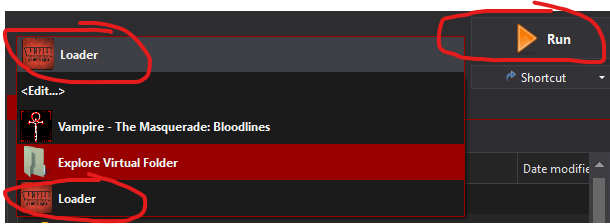
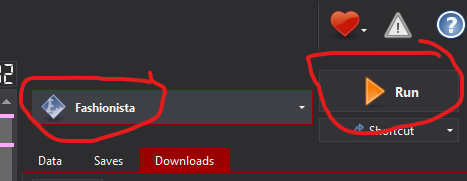
Update Read Me and add Images

diff --git a/README.md b/README.md
@@ -48,17 +48,17 @@ Its updated when someone tells me something is broken and I can fix it or I star
 - [Uninstalling Merethic](#uninstalling-merethic)
 
 # Preface
-I made this for my use, I don't care if you don't like the way Malkavians look I like it, if the base game profile has been created use that profile instead.
+I made this for my use, I don't care if you don't like the way Malkavians look I like it, the main profile is what I use think of it as my cut of the list, I made a base game profile that you should use if you want to just play the base game with bug fixes and higher res textures for some stuff.
 
 1. As a modlist user, I expect some small efforts into fixing your own issues, mostly by searching the documentation provided here and by the Discord channels. It's very likely any issue you encounter has already been solved - if this is the case and it's well known, don't be surprised if you get ignored.
    
-2. Support shouldn't be expected as instant - I have a full time job on top of this, if you ping me depending on my mood or if its an actual issue or not Muted.
+2. Support shouldn't be expected as instant - I have a full time job on top of this be nice.
    
-3. Do not expect a 100% polished, well-balanced and "perfect" experience, I am but one person even if its just a small list..
+3. Do not expect a 100% polished, well-balanced and "perfect" experience, I am but one person even if its just a small list.. and this is a famously buggy game.
    
 4. We're modding a nearly 20 year old game here, please temper your expectations some.
    
-5. Suggestions are fine but I have looked at everysingle mod on the Nexus for the list so there is a decent chance I looked at it and said no but there is always a chance.
+5. Suggestions are fine but I have looked at everysingle mod on the Nexus for the list so there is a decent chance I looked at it and said no but there is always a chance or it might be a new mod they still do come out from time to time.
 
 # Hardware Requirements
 
@@ -66,7 +66,7 @@ I made this for my use, I don't care if you don't like the way Malkavians look I
 |-------------|-----------------------------------------------|---------------------|--------------------|
 | What I have | AMD Ryzen 7 5800X3D 8-Core Processor 3.40 GHz | 32GB DDR4 @ 3200MHz | AMD Radeon RX 6950 |
 
-It runs great with my system but its probably fine on a potato PC
+It runs great with my system but its probably fine on a potato.
 
 
 ## Storage Space
@@ -76,10 +76,10 @@ It runs great with my system but its probably fine on a potato PC
 | Minimum     | 32GB          | SATA SSD            |
 | Recommended | 60GB          | NVMe SSD            |
 
-Your installation must be on an ***internal*** SSD. External SSDs & HDDs are too slow for modlists to run from, and if you ignore this and it runs slow I will point and laugh.
+Your installation must be on an ***internal*** SSD or M.2 Drive. External SSDs & HDDs are too slow for modlists to run from, and I suggest a M.2 drive otherwise load and launch times are a bit longer then you would want.
 
 # You Will Need
-  * A Nexus Premium Account if you do not want to click install 50 times.
+  * A Nexus Premium Account if you do not want to click install 100 times.
   * Patience
 
 # Pre-Installation
@@ -127,26 +127,10 @@ Download these files and place them *as they are* into the Resource Download fol
 
 After Wabbajack has given you the installation successful screen, you're free to close it.
 
-At this time I am unable to auto install the Unoffical Patch for you due to some issue with the exe file it uses that I am looking into resolving in the future.
+## Launch the game
 
-In the Folder you set to download the mods to open it up and find the file named
-
-`VTMBup115.exe-80-11-5-1750927258.exe`
-
-Double Click it - You might have a window come up that asks if you want to let the app make changes to your device click yes
-
-Click Next and then it should ask you where you want to set the Destination Folder click the browse button
-
-![Fashionista Destination Folder](img/Destination.png)
-
-Find the folder you set the list to install to and then select the stock game folder and click okay then click next.
-
-![Fashionista Stock Folder](img/Stock.png)
-
-You will now have some options to select check the `Plus Patch (Restoration and Tweaks)` and its up to you if you want the `Patch Extras` or not.
-Click Next Then Install and when it completes uncheck the launch game option and close the window.
-Then run MO2 by double-clicking `ModOrganizer.exe`.
-Then Select Loader in drop down if its not already selected and launch the game.
+Start by opening the folder you installed the list to and then run MO2 by double-clicking `ModOrganizer.exe`.
+Then Select **Fashionista** in drop down if its not already selected and launch the game.
 
 ![Fashionista launch](img/Launch.png)
 
@@ -160,15 +144,32 @@ Plus it only works for Skyrim so double don't use it.
 ## Creating a desktop shortcut
 Open MO2, ensure **Launch** is selected in the dropdown and click the "Shortcut" button. From the small dropdown menu, click "Desktop".
 
-![Desktop Shortcut Creation](img/DesktopShortcut00.png)
+![Desktop Shortcut Creation](img/Shortcut.png)
 
-# Mod Setup
+# Optional Mods Setup
 
-There are a couple Mods that you can enable or disable in the the mod panel
+There are a couple of optional Mods that you can enable or disable in the the mod panel (The left panel in Mod Organizer)
 
-I have a Clan UI section where you can enable a custom UI for a specific Clan, not all clans have one but its a nice touch if you plan on playing a supported clan.
 
-I have an ENB section for the best of the ENB's I found, select only one ENB and enable all the mods in that category, I personally do not use one so I have no suggestions on what if any you should use.
+## Custom Clan UI
+This section is where you can enable a custom UI for a specific Clan, not all clans have one but its a nice touch if you plan on playing a supported clan, make sure you select only one option
+
+![Custom Clans UI](img/Clan.png)
+
+## Fashion
+This section is for custom looks for the PC (Player Character) I have it broken down by Clan and set it up to have a Male or Female tag at the end most of the time you should only active one male and one female option per area or at the end there is an area for mods that cover all Clans
+
+![Fashion](img/Fashion.png)
+
+## ENB
+I have an ENB section for the best of the ENB's I found, select only one ENB and enable all the mods in that category, the enb I have selected is a good general ENB but I have added a couple extra.
+
+If you want to use one of the other ENB's you would have to
+- Uncheck **Dev0lved ENB**
+- Check **ENB Files**
+- Expand the ENB Option that you want to use and then check the options in that area.
+
+![ENB](/img/ENB.png)
 
 # Updating Fashionista
 When an update is released, please always check the [changelog](changelog.md) first. Backup your saves before you commit to any updates, Wabbajack doesn't usually touch save files, it does has the ability to delete them if it wanted to.
